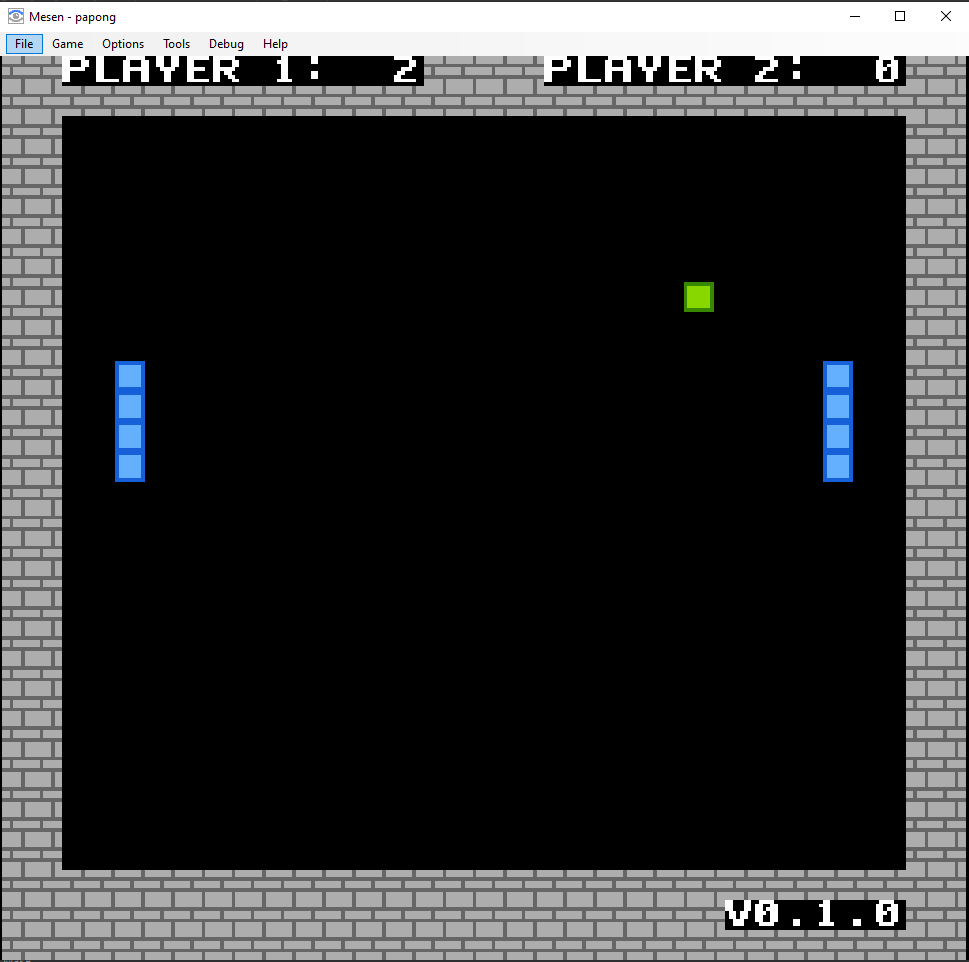
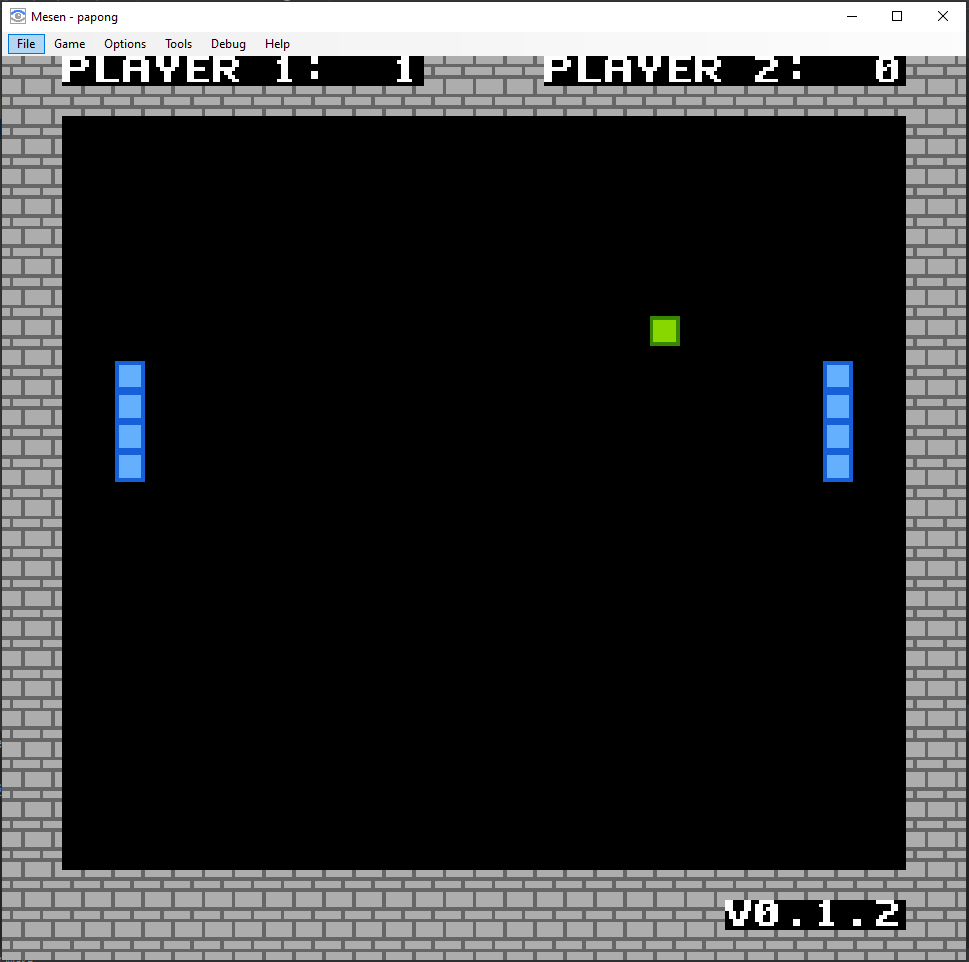
Fixed version in game.

diff --git a/papong.c b/papong.c
@@ -69,7 +69,7 @@ void show_introduction(void) {
 	static const char first_text[] = "Molleja Soft presents...";
 	static const char second_text[] = "PAPONG";
     static const char clear_text[] = "                        ";
-	static const char version_text[] = "0.1.0";
+	static const char version_text[] = "0.1.2";
 
     show_text(version_text, 25, 28);
 

diff --git a/CHANGELOG.md b/CHANGELOG.md
@@ -7,6 +7,10 @@ and this project adheres to [Semantic Versioning](https://semver.org/spec/v2.0.0
 ## [Unreleased]
 - None
 
+## [0.1.2] - 2022-02-26
+### Fixed
+- Fixed version shown in game.
+
 ## [0.1.1] - 2022-02-13
 ### Fixed
 - Minor fixes.
